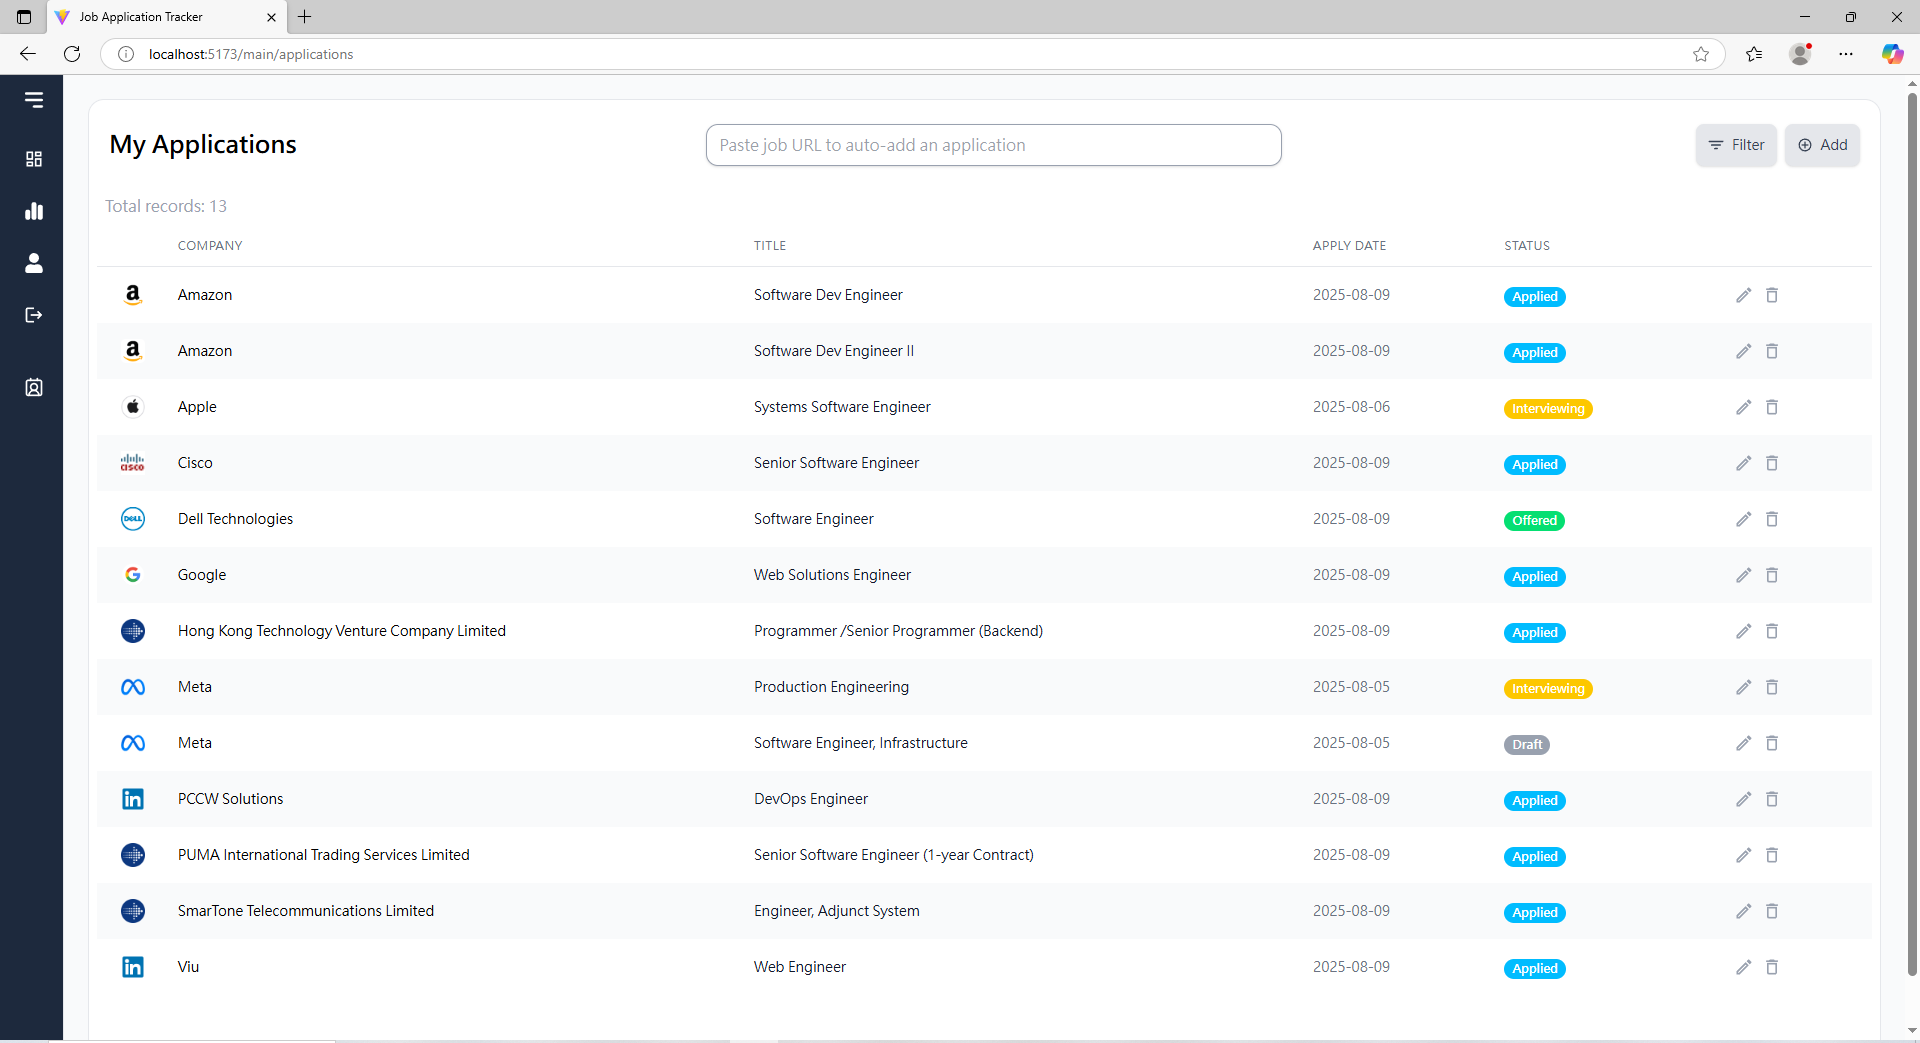
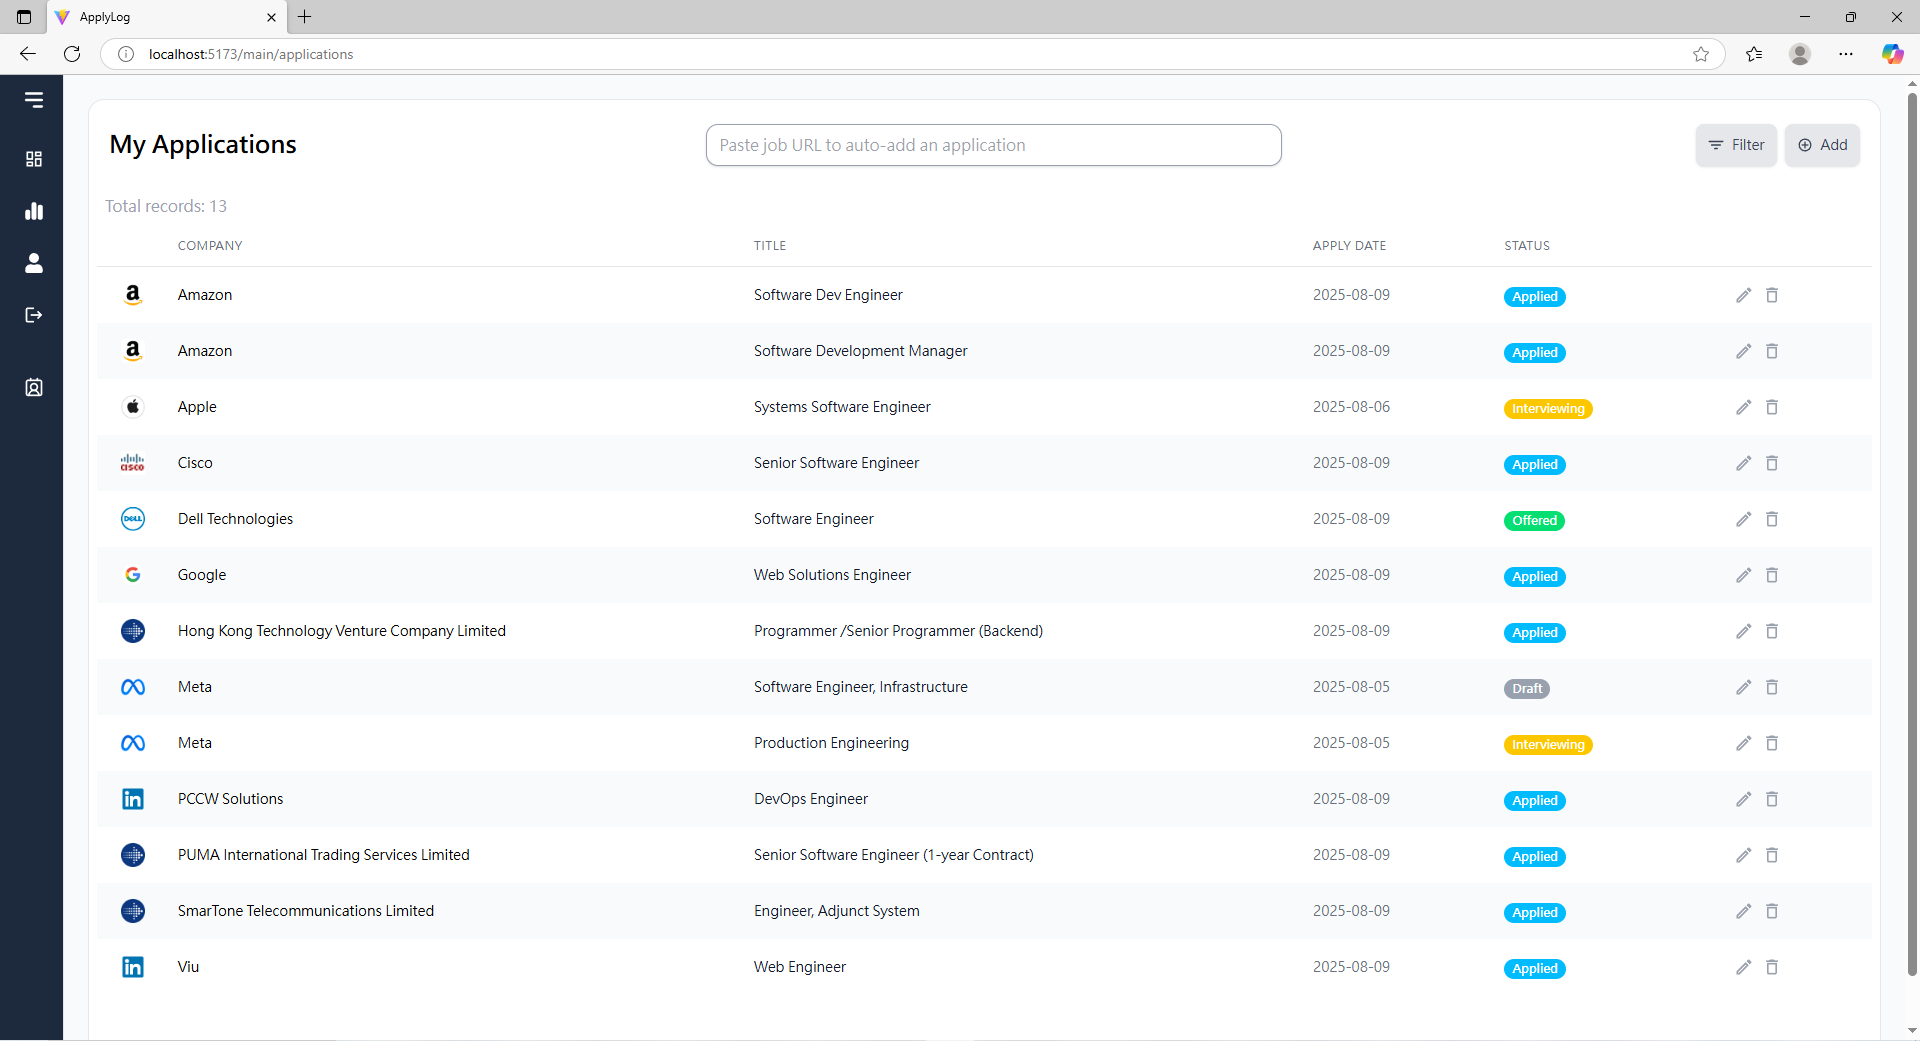
Update README.md

diff --git a/frontend/index.html b/frontend/index.html
@@ -4,7 +4,7 @@
     <meta charset="UTF-8" />
     <link rel="icon" type="image/svg+xml" href="/vite.svg" />
     <meta name="viewport" content="width=device-width, initial-scale=1.0" />
-    <title>Job Application Tracker</title>
+    <title>ApplyLog</title>
   </head>
   <body>
     <div id="root"></div>

diff --git a/README.md b/README.md
@@ -12,7 +12,7 @@ I used to type all my job application details into Excel, it just felt like such
 
 * **Application Management**: Easily Create, Read, Update, and Delete job application records.
 
-* **AI-Powered Autofill**: Integrates Web scraping with the Google Gemini API to automatically create application records from a pasted job posting URL. Extracts and stores key job details such as title, requirements, location, and salary - **all in just 6–10 seconds**, saving you from boring manual entry.
+* **AI-Powered Autofill**: Integrates Web scraping with the Google Gemini API to automatically create application records from a pasted job posting URL. Extracts and stores key job details such as title, requirements, location, and salary — **all in just 6 - 10 seconds**, saving you from boring manual entry.
 
 * **Secure User Authentication**: Support user registration and login system with secure JWT-based authentication.
 
